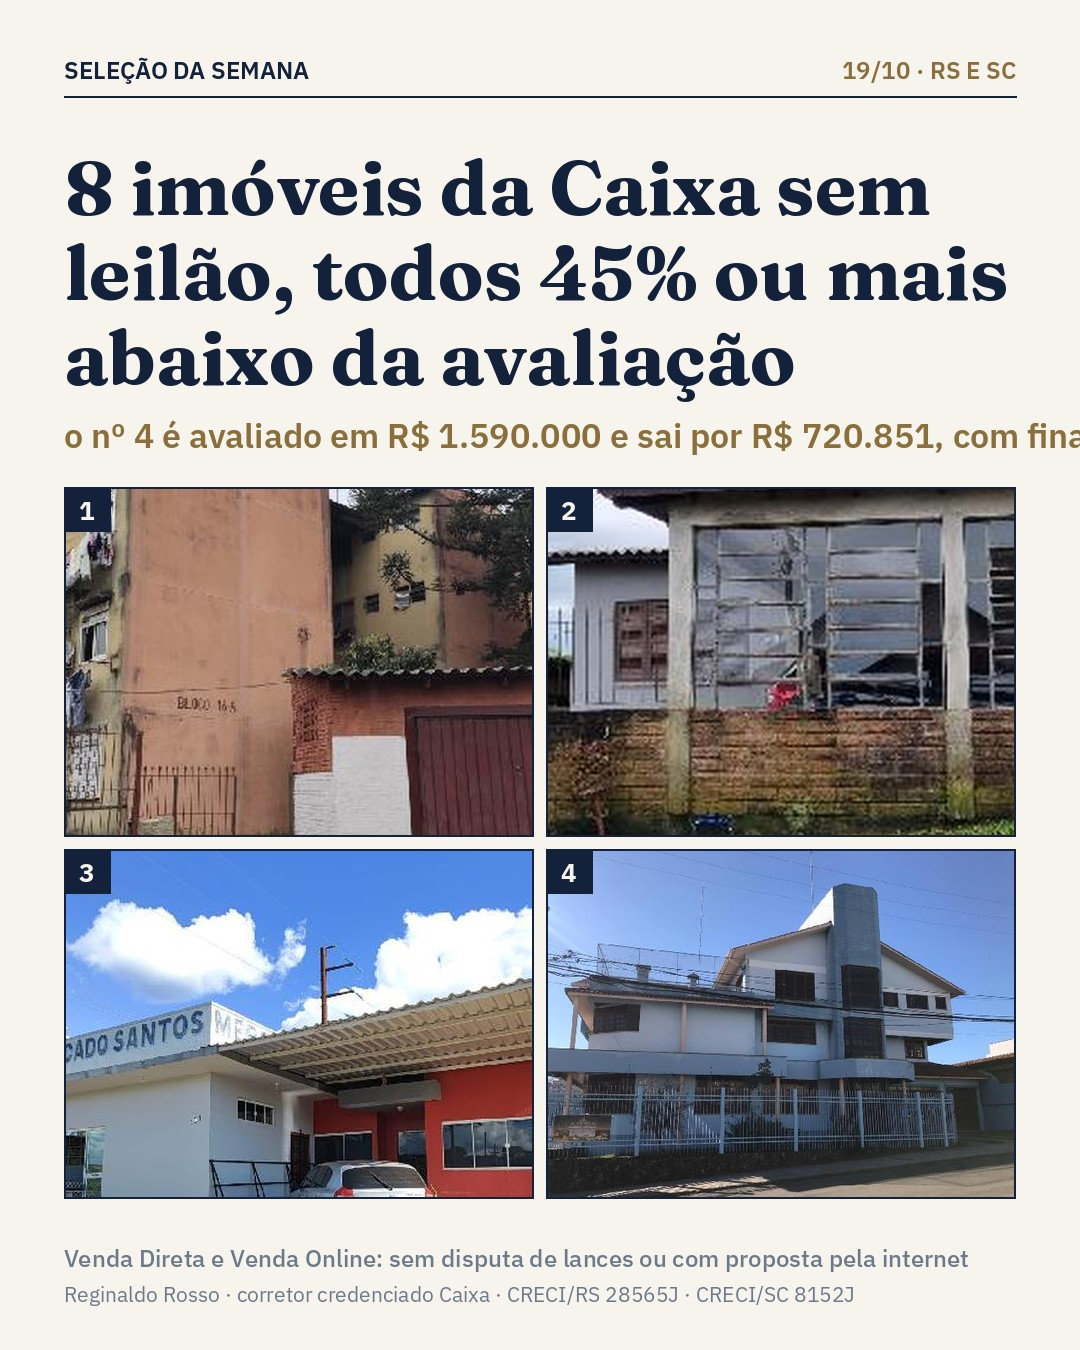
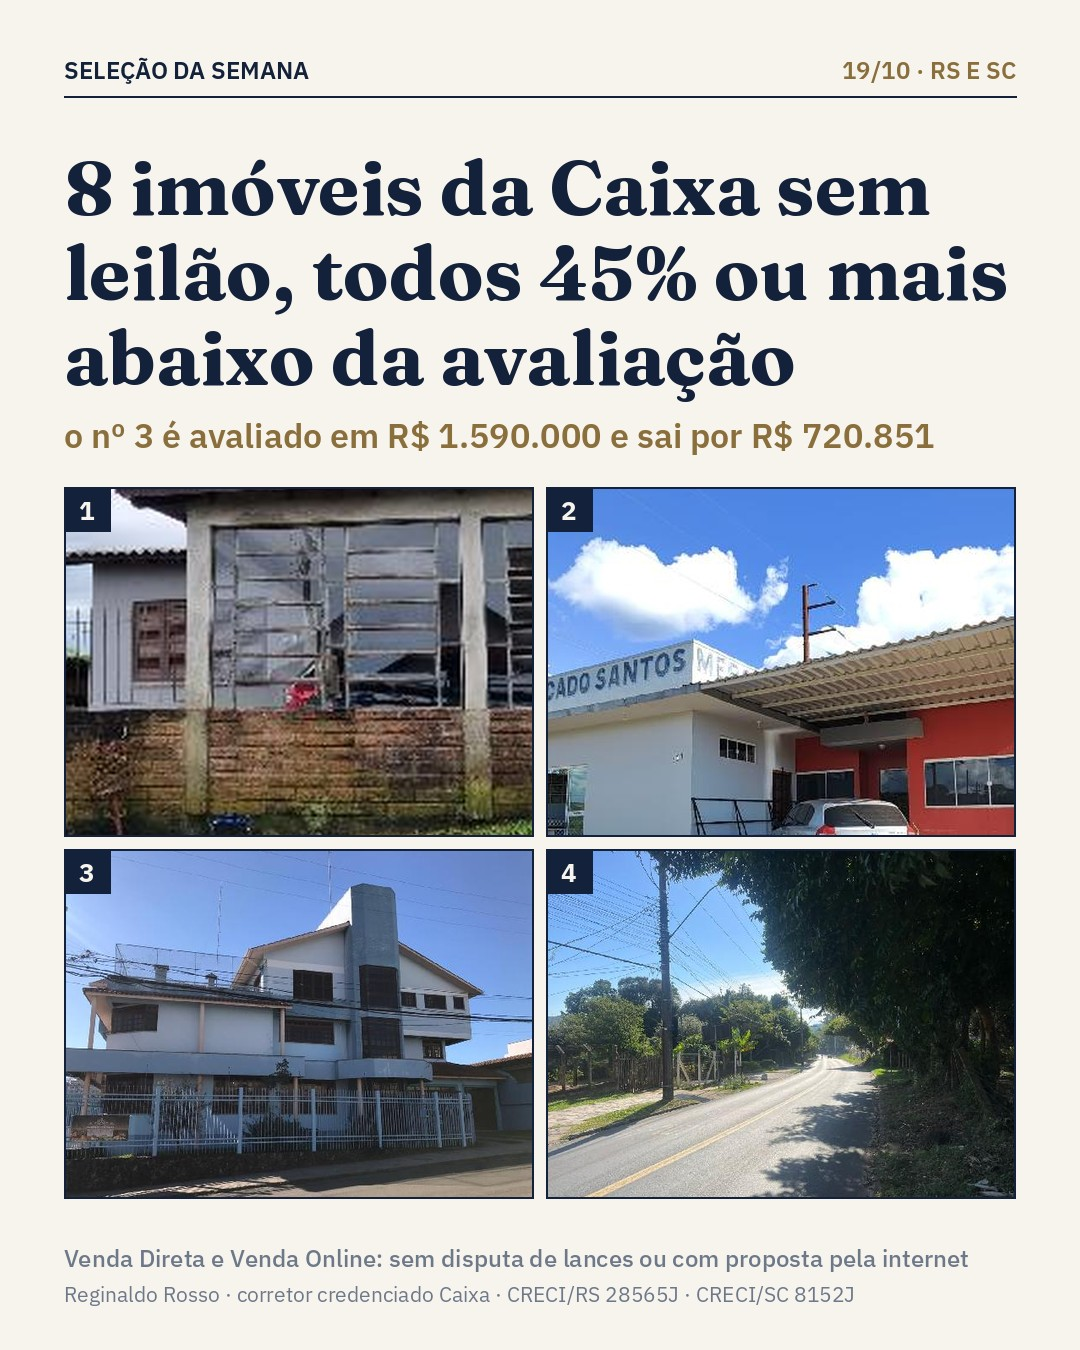
Posts Instagram (2026-10-21)

diff --git a/lista/index.html b/lista/index.html
@@ -63,20 +63,9 @@ document.addEventListener('click',function(e){var a=e.target.closest('a[data-wa]
 </header>
 <main>
 <article class="im" id="n1">
-  <img src="/social/semana/2026-10-19/02.jpg" alt="Apartamento em Sapucaia do Sul/RS por R$ 24.772" width="1080" height="1350" loading="eager">
+  <img src="/social/semana/2026-10-19/02.jpg" alt="Casa em Charqueadas/RS por R$ 115.939" width="1080" height="1350" loading="eager">
   <div class="info">
-    <p class="cod">nº 1 · código 8444414692900 · Venda Online</p>
-    <p class="pag">Financiamento: <b>não</b> · FGTS: <b>sim</b></p>
-    <div class="bt">
-      <a class="b1" href="https://wa.me/5551991104976?text=Ol%C3%A1%21%20Vi%20na%20lista%20da%20semana%20do%20Instagram%20o%20im%C3%B3vel%208444414692900%20%28Apartamento%20em%20Sapucaia%20do%20Sul/RS%29.%20Quero%20saber%20mais." data-wa="8444414692900">Quero este no WhatsApp</a>
-      <a class="b2" href="/imovel/8444414692900.html?utm_source=instagram&amp;utm_medium=lista">Ver todos os detalhes</a>
-    </div>
-  </div>
-</article>
-<article class="im" id="n2">
-  <img src="/social/semana/2026-10-19/03.jpg" alt="Casa em Charqueadas/RS por R$ 115.939" width="1080" height="1350" loading="lazy">
-  <div class="info">
-    <p class="cod">nº 2 · código 8555512745121 · Venda Direta</p>
+    <p class="cod">nº 1 · código 8555512745121 · Venda Direta</p>
     <p class="pag">Financiamento: <b>não</b> · FGTS: <b>não</b></p>
     <div class="bt">
       <a class="b1" href="https://wa.me/5551991104976?text=Ol%C3%A1%21%20Vi%20na%20lista%20da%20semana%20do%20Instagram%20o%20im%C3%B3vel%208555512745121%20%28Casa%20em%20Charqueadas/RS%29.%20Quero%20saber%20mais." data-wa="8555512745121">Quero este no WhatsApp</a>
@@ -84,10 +73,10 @@ document.addEventListener('click',function(e){var a=e.target.closest('a[data-wa]
     </div>
   </div>
 </article>
-<article class="im" id="n3">
-  <img src="/social/semana/2026-10-19/04.jpg" alt="Casa em Xanxerê/SC por R$ 368.649" width="1080" height="1350" loading="lazy">
+<article class="im" id="n2">
+  <img src="/social/semana/2026-10-19/03.jpg" alt="Casa em Xanxerê/SC por R$ 368.649" width="1080" height="1350" loading="lazy">
   <div class="info">
-    <p class="cod">nº 3 · código 8444417043210 · Venda Direta</p>
+    <p class="cod">nº 2 · código 8444417043210 · Venda Direta</p>
     <p class="pag">Financiamento: <b>sim</b> · FGTS: <b>sim</b></p>
     <div class="bt">
       <a class="b1" href="https://wa.me/5548991642332?text=Ol%C3%A1%21%20Vi%20na%20lista%20da%20semana%20do%20Instagram%20o%20im%C3%B3vel%208444417043210%20%28Casa%20em%20Xanxer%C3%AA/SC%29.%20Quero%20saber%20mais." data-wa="8444417043210">Quero este no WhatsApp</a>
@@ -95,10 +84,10 @@ document.addEventListener('click',function(e){var a=e.target.closest('a[data-wa]
     </div>
   </div>
 </article>
-<article class="im" id="n4">
-  <img src="/social/semana/2026-10-19/05.jpg" alt="Loja em Santa Maria/RS por R$ 720.851" width="1080" height="1350" loading="lazy">
+<article class="im" id="n3">
+  <img src="/social/semana/2026-10-19/04.jpg" alt="Loja em Santa Maria/RS por R$ 720.851" width="1080" height="1350" loading="lazy">
   <div class="info">
-    <p class="cod">nº 4 · código 10136730 · Venda Direta</p>
+    <p class="cod">nº 3 · código 10136730 · Venda Direta</p>
     <p class="pag">Financiamento: <b>sim</b> · FGTS: <b>não</b></p>
     <div class="bt">
       <a class="b1" href="https://wa.me/5551991104976?text=Ol%C3%A1%21%20Vi%20na%20lista%20da%20semana%20do%20Instagram%20o%20im%C3%B3vel%2010136730%20%28Loja%20em%20Santa%20Maria/RS%29.%20Quero%20saber%20mais." data-wa="10136730">Quero este no WhatsApp</a>
@@ -106,10 +95,10 @@ document.addEventListener('click',function(e){var a=e.target.closest('a[data-wa]
     </div>
   </div>
 </article>
-<article class="im" id="n5">
-  <img src="/social/semana/2026-10-19/06.jpg" alt="Apartamento em Porto Alegre/RS por R$ 97.053" width="1080" height="1350" loading="lazy">
+<article class="im" id="n4">
+  <img src="/social/semana/2026-10-19/05.jpg" alt="Apartamento em Porto Alegre/RS por R$ 97.053" width="1080" height="1350" loading="lazy">
   <div class="info">
-    <p class="cod">nº 5 · código 8444428165460 · Venda Direta</p>
+    <p class="cod">nº 4 · código 8444428165460 · Venda Direta</p>
     <p class="pag">Financiamento: <b>sim</b> · FGTS: <b>sim</b></p>
     <div class="bt">
       <a class="b1" href="https://wa.me/5551991104976?text=Ol%C3%A1%21%20Vi%20na%20lista%20da%20semana%20do%20Instagram%20o%20im%C3%B3vel%208444428165460%20%28Apartamento%20em%20Porto%20Alegre/RS%29.%20Quero%20saber%20mais." data-wa="8444428165460">Quero este no WhatsApp</a>
@@ -117,10 +106,10 @@ document.addEventListener('click',function(e){var a=e.target.closest('a[data-wa]
     </div>
   </div>
 </article>
-<article class="im" id="n6">
-  <img src="/social/semana/2026-10-19/07.jpg" alt="Casa em Rio Grande/RS por R$ 233.554" width="1080" height="1350" loading="lazy">
+<article class="im" id="n5">
+  <img src="/social/semana/2026-10-19/06.jpg" alt="Casa em Rio Grande/RS por R$ 233.554" width="1080" height="1350" loading="lazy">
   <div class="info">
-    <p class="cod">nº 6 · código 1444402332825 · Venda Direta</p>
+    <p class="cod">nº 5 · código 1444402332825 · Venda Direta</p>
     <p class="pag">Financiamento: <b>sim</b> · FGTS: <b>não</b></p>
     <div class="bt">
       <a class="b1" href="https://wa.me/5551991104976?text=Ol%C3%A1%21%20Vi%20na%20lista%20da%20semana%20do%20Instagram%20o%20im%C3%B3vel%201444402332825%20%28Casa%20em%20Rio%20Grande/RS%29.%20Quero%20saber%20mais." data-wa="1444402332825">Quero este no WhatsApp</a>
@@ -128,10 +117,10 @@ document.addEventListener('click',function(e){var a=e.target.closest('a[data-wa]
     </div>
   </div>
 </article>
-<article class="im" id="n7">
-  <img src="/social/semana/2026-10-19/08.jpg" alt="Casa em Porto Alegre/RS por R$ 769.355" width="1080" height="1350" loading="lazy">
+<article class="im" id="n6">
+  <img src="/social/semana/2026-10-19/07.jpg" alt="Casa em Porto Alegre/RS por R$ 769.355" width="1080" height="1350" loading="lazy">
   <div class="info">
-    <p class="cod">nº 7 · código 1555506097930 · Venda Direta</p>
+    <p class="cod">nº 6 · código 1555506097930 · Venda Direta</p>
     <p class="pag">Financiamento: <b>sim</b> · FGTS: <b>não</b></p>
     <div class="bt">
       <a class="b1" href="https://wa.me/5551991104976?text=Ol%C3%A1%21%20Vi%20na%20lista%20da%20semana%20do%20Instagram%20o%20im%C3%B3vel%201555506097930%20%28Casa%20em%20Porto%20Alegre/RS%29.%20Quero%20saber%20mais." data-wa="1555506097930">Quero este no WhatsApp</a>
@@ -139,14 +128,25 @@ document.addEventListener('click',function(e){var a=e.target.closest('a[data-wa]
     </div>
   </div>
 </article>
-<article class="im" id="n8">
-  <img src="/social/semana/2026-10-19/09.jpg" alt="Apartamento em Araquari/SC por R$ 74.032" width="1080" height="1350" loading="lazy">
+<article class="im" id="n7">
+  <img src="/social/semana/2026-10-19/08.jpg" alt="Apartamento em Araquari/SC por R$ 74.032" width="1080" height="1350" loading="lazy">
   <div class="info">
-    <p class="cod">nº 8 · código 8444420114506 · Venda Direta</p>
+    <p class="cod">nº 7 · código 8444420114506 · Venda Direta</p>
     <p class="pag">Financiamento: <b>não</b> · FGTS: <b>não</b></p>
     <div class="bt">
       <a class="b1" href="https://wa.me/5548991642332?text=Ol%C3%A1%21%20Vi%20na%20lista%20da%20semana%20do%20Instagram%20o%20im%C3%B3vel%208444420114506%20%28Apartamento%20em%20Araquari/SC%29.%20Quero%20saber%20mais." data-wa="8444420114506">Quero este no WhatsApp</a>
       <a class="b2" href="/imovel/8444420114506.html?utm_source=instagram&amp;utm_medium=lista">Ver todos os detalhes</a>
+    </div>
+  </div>
+</article>
+<article class="im" id="n8">
+  <img src="/social/semana/2026-10-19/09.jpg" alt="Apartamento em Sapucaia do Sul/RS por R$ 24.772" width="1080" height="1350" loading="lazy">
+  <div class="info">
+    <p class="cod">nº 8 · código 8444414692900 · Venda Online</p>
+    <p class="pag">Financiamento: <b>não</b> · FGTS: <b>sim</b></p>
+    <div class="bt">
+      <a class="b1" href="https://wa.me/5551991104976?text=Ol%C3%A1%21%20Vi%20na%20lista%20da%20semana%20do%20Instagram%20o%20im%C3%B3vel%208444414692900%20%28Apartamento%20em%20Sapucaia%20do%20Sul/RS%29.%20Quero%20saber%20mais." data-wa="8444414692900">Quero este no WhatsApp</a>
+      <a class="b2" href="/imovel/8444414692900.html?utm_source=instagram&amp;utm_medium=lista">Ver todos os detalhes</a>
     </div>
   </div>
 </article>

diff --git a/social/index.html b/social/index.html
@@ -17,7 +17,7 @@ button{background:var(--gold);color:#081120;margin-left:auto}.bx{background:var(
 textarea{position:absolute;left:-9999px;width:1px;height:1px;opacity:0}
 section>figure{max-width:360px}
 </style></head><body><header><b>Reginaldo Rosso</b> · posts prontos para o Instagram</header><main>
-<section><h2>Seleção da semana · 19/10/2026 · carrossel de 10 slides (poste na ordem)</h2><div class="tira"><a href="semana/2026-10-19/01.jpg" download><img src="semana/2026-10-19/01.jpg" loading="lazy" alt="slide 01"></a><a href="semana/2026-10-19/02.jpg" download><img src="semana/2026-10-19/02.jpg" loading="lazy" alt="slide 02"></a><a href="semana/2026-10-19/03.jpg" download><img src="semana/2026-10-19/03.jpg" loading="lazy" alt="slide 03"></a><a href="semana/2026-10-19/04.jpg" download><img src="semana/2026-10-19/04.jpg" loading="lazy" alt="slide 04"></a><a href="semana/2026-10-19/05.jpg" download><img src="semana/2026-10-19/05.jpg" loading="lazy" alt="slide 05"></a><a href="semana/2026-10-19/06.jpg" download><img src="semana/2026-10-19/06.jpg" loading="lazy" alt="slide 06"></a><a href="semana/2026-10-19/07.jpg" download><img src="semana/2026-10-19/07.jpg" loading="lazy" alt="slide 07"></a><a href="semana/2026-10-19/08.jpg" download><img src="semana/2026-10-19/08.jpg" loading="lazy" alt="slide 08"></a><a href="semana/2026-10-19/09.jpg" download><img src="semana/2026-10-19/09.jpg" loading="lazy" alt="slide 09"></a><a href="semana/2026-10-19/10.jpg" download><img src="semana/2026-10-19/10.jpg" loading="lazy" alt="slide 10"></a></div><figure><a href="semana/2026-10-19/01.jpg" download><img src="semana/2026-10-19/01.jpg" loading="lazy" alt="Legenda do carrossel"></a><figcaption><b>Legenda do carrossel</b><button onclick="copiar(this)">Copiar legenda</button><a class="bx" href="semana/2026-10-19/01.jpg" download>Baixar capa</a></figcaption><textarea readonly>8 imóveis da Caixa no RS e SC sem leilão, todos 45% ou mais abaixo da avaliação. O nº 4 é avaliado em R$ 1.590.000 e sai por R$ 720.851, com financiamento.
+<section><h2>Seleção da semana · 19/10/2026 · carrossel de 10 slides (poste na ordem)</h2><div class="tira"><a href="semana/2026-10-19/01.jpg" download><img src="semana/2026-10-19/01.jpg" loading="lazy" alt="slide 01"></a><a href="semana/2026-10-19/02.jpg" download><img src="semana/2026-10-19/02.jpg" loading="lazy" alt="slide 02"></a><a href="semana/2026-10-19/03.jpg" download><img src="semana/2026-10-19/03.jpg" loading="lazy" alt="slide 03"></a><a href="semana/2026-10-19/04.jpg" download><img src="semana/2026-10-19/04.jpg" loading="lazy" alt="slide 04"></a><a href="semana/2026-10-19/05.jpg" download><img src="semana/2026-10-19/05.jpg" loading="lazy" alt="slide 05"></a><a href="semana/2026-10-19/06.jpg" download><img src="semana/2026-10-19/06.jpg" loading="lazy" alt="slide 06"></a><a href="semana/2026-10-19/07.jpg" download><img src="semana/2026-10-19/07.jpg" loading="lazy" alt="slide 07"></a><a href="semana/2026-10-19/08.jpg" download><img src="semana/2026-10-19/08.jpg" loading="lazy" alt="slide 08"></a><a href="semana/2026-10-19/09.jpg" download><img src="semana/2026-10-19/09.jpg" loading="lazy" alt="slide 09"></a><a href="semana/2026-10-19/10.jpg" download><img src="semana/2026-10-19/10.jpg" loading="lazy" alt="slide 10"></a></div><figure><a href="semana/2026-10-19/01.jpg" download><img src="semana/2026-10-19/01.jpg" loading="lazy" alt="Legenda do carrossel"></a><figcaption><b>Legenda do carrossel</b><button onclick="copiar(this)">Copiar legenda</button><a class="bx" href="semana/2026-10-19/01.jpg" download>Baixar capa</a></figcaption><textarea readonly>8 imóveis da Caixa no RS e SC sem leilão, todos 45% ou mais abaixo da avaliação. O nº 3 é avaliado em R$ 1.590.000 e sai por R$ 720.851.
 
 desconto médio de 59% sobre a avaliação da própria Caixa.
 5 de 8 aceitam financiamento. 3 de 8 aceitam FGTS.
@@ -47,20 +47,20 @@ Regras conforme edital de cada imóvel. Não é promessa de rentabilidade.
 #imoveiscaixa #vendadiretacaixa #primeiroimovel #imoveisrs #imoveissc</textarea></figure></section><section><h2>Raio-X do dia · 21/10/2026</h2><div class=g><figure><a href="2026-10-21/rs-story.jpg" download><img src="2026-10-21/rs-story.jpg" loading="lazy" alt="Story RS (adesivo de link)"></a><figcaption><b>Story RS (adesivo de link)</b><button onclick="copiar(this)">Copiar legenda</button><a class="bx" href="2026-10-21/rs-story.jpg" download>Baixar imagem</a></figcaption><textarea readonly>STORY: poste a imagem e ponha o adesivo de LINK na faixa livre logo abaixo de &quot;Toque no link e veja a lista da semana&quot;.
 Link: https://reginaldorosso.com.br/lista/?utm_source=instagram&amp;utm_medium=story
 Texto do adesivo: LISTA DA SEMANA
-</textarea></figure><figure><a href="2026-10-21/rs.jpg" download><img src="2026-10-21/rs.jpg" loading="lazy" alt="Raio-X RS"></a><figcaption><b>Raio-X RS</b><button onclick="copiar(this)">Copiar legenda</button><a class="bx" href="2026-10-21/rs.jpg" download>Baixar imagem</a></figcaption><textarea readonly>gleba de 61622 m² em Porto Alegre/RS por R$ 911.164, 82% abaixo dos R$ 5.168.000 da avaliação da própria Caixa.
+</textarea></figure><figure><a href="2026-10-21/rs.jpg" download><img src="2026-10-21/rs.jpg" loading="lazy" alt="Raio-X RS"></a><figcaption><b>Raio-X RS</b><button onclick="copiar(this)">Copiar legenda</button><a class="bx" href="2026-10-21/rs.jpg" download>Baixar imagem</a></figcaption><textarea readonly>casa de 53 m² em Pelotas/RS por R$ 78.770, 55% abaixo dos R$ 174.000 da avaliação da própria Caixa.
 
-Aceita financiamento: não.
-Aceita FGTS: não.
+Aceita financiamento: sim.
+Aceita FGTS: sim.
 Venda Direta: sem disputa de lances. Fecha pelo preço da Caixa ou faz proposta.
 
 a assessoria é grátis: a comissão do corretor credenciado é paga pela Caixa. Só precisa do CRECI do Reginaldo na proposta, então fale antes de enviar.
-sobre este, mande o código 10007591 no direct ou no WhatsApp (51) 99110-4976 que eu te passo matrícula, edital e a conta completa.
+sobre este, mande o código 8444408468166 no direct ou no WhatsApp (51) 99110-4976 que eu te passo matrícula, edital e a conta completa.
 quer a lista com os imóveis da semana? manda LISTA no direct.
 
 Reginaldo Rosso · corretor credenciado Caixa · CRECI/RS 28565J · CRECI/SC 8152J
 Valores do edital Caixa, sujeitos a alteração. Não é promessa de rentabilidade.
 
-#imoveiscaixa #vendadiretacaixa #portoalegreimoveis #imoveisrs #investimentoimobiliario</textarea></figure><figure><a href="2026-10-21/sc-story.jpg" download><img src="2026-10-21/sc-story.jpg" loading="lazy" alt="Story SC (adesivo de link)"></a><figcaption><b>Story SC (adesivo de link)</b><button onclick="copiar(this)">Copiar legenda</button><a class="bx" href="2026-10-21/sc-story.jpg" download>Baixar imagem</a></figcaption><textarea readonly>STORY: poste a imagem e ponha o adesivo de LINK na faixa livre logo abaixo de &quot;Toque no link e veja a lista da semana&quot;.
+#imoveiscaixa #vendadiretacaixa #pelotasimoveis #imoveisrs #investimentoimobiliario</textarea></figure><figure><a href="2026-10-21/sc-story.jpg" download><img src="2026-10-21/sc-story.jpg" loading="lazy" alt="Story SC (adesivo de link)"></a><figcaption><b>Story SC (adesivo de link)</b><button onclick="copiar(this)">Copiar legenda</button><a class="bx" href="2026-10-21/sc-story.jpg" download>Baixar imagem</a></figcaption><textarea readonly>STORY: poste a imagem e ponha o adesivo de LINK na faixa livre logo abaixo de &quot;Toque no link e veja a lista da semana&quot;.
 Link: https://reginaldorosso.com.br/lista/?utm_source=instagram&amp;utm_medium=story
 Texto do adesivo: LISTA DA SEMANA
 </textarea></figure><figure><a href="2026-10-21/sc.jpg" download><img src="2026-10-21/sc.jpg" loading="lazy" alt="Raio-X SC"></a><figcaption><b>Raio-X SC</b><button onclick="copiar(this)">Copiar legenda</button><a class="bx" href="2026-10-21/sc.jpg" download>Baixar imagem</a></figcaption><textarea readonly>casa de 70 m² em Mafra/SC por R$ 525.115, 51% abaixo dos R$ 1.075.000 da avaliação da própria Caixa.
